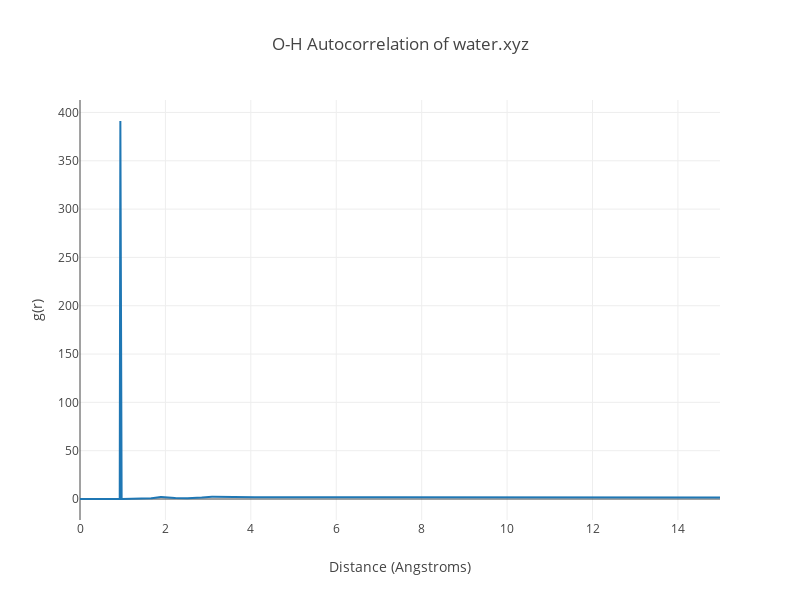
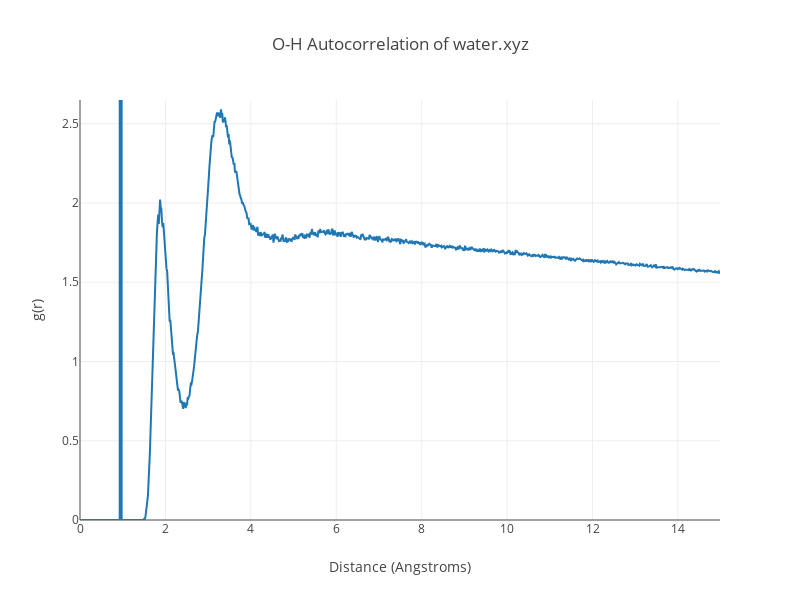
update plots

diff --git a/plots/m6_ex4_2_a.html b/plots/m6_ex4_2_a.html
@@ -104,7 +104,7 @@
         -924942.9785176998,
         -874893.2775014011,
         -930791.8623446389,
-        -927144.7366043833,
+        -927144.7366043831,
         -977595.2572881307,
         -921443.4658829939,
         -874902.2732745628,
@@ -112,7 +112,7 @@
         -890500.6494784101,
         -937302.8178310888,
         -947529.1970038363,
-        -931059.9303238968,
+        -931059.9303238966,
         -951707.895245998,
         -915879.1235923077,
         -899438.9297291357,

diff --git a/plots/m6_ex4_2_b.html b/plots/m6_ex4_2_b.html
@@ -92,9 +92,9 @@
         -813388.0273457404,
         -947750.037445928,
         -865554.2860830014,
-        -1102598.5822782724,
+        -1102598.5822782721,
         -1183023.488100707,
-        -1033511.4289496102,
+        -1033511.4289496101,
         -816287.6800282241,
         -2064867.5962800276,
         -1040766.286180422,

diff --git a/plots/m6_ex2_2_b.html b/plots/m6_ex2_2_b.html
@@ -2036,7 +2036,11 @@
     "yaxis": {
       "title": {
         "text": "g(r)"
-      }
+      },
+      "range": [
+        0.0,
+        2.65
+      ]
     }
   },
   "config": {}

diff --git a/md_code/src/main.rs b/md_code/src/main.rs
@@ -100,7 +100,7 @@ fn main() {
         let layout = Layout::new()
             .title(Title::new("O-H Autocorrelation of water.xyz"))
             .x_axis(Axis::new().title(Title::new("Distance (Angstroms)")))
-            .y_axis(Axis::new().title(Title::new("g(r)")));
+            .y_axis(Axis::new().title(Title::new("g(r)")).range(vec![0., 2.65]));
         plot.set_layout(layout);
         plot.add_trace(trace);
         #[cfg(feature = "png")]
@@ -177,8 +177,6 @@ fn main() {
             .width(2500)
             .title(Title::new("Autocorrelation of Sets"))
             .x_axis3(Axis::new().title(Title::new("Distance / Angstroms")))
-            // .x_axis2(Axis::new().title(Title::new("Distance (Angstroms)")))
-            // .x_axis(Axis::new().title(Title::new("Distance (Angstroms)")))
             .y_axis(Axis::new().title(Title::new("g(r)")))
             .y_axis2(Axis::new().title(Title::new("g(r)")))
             .y_axis3(Axis::new().title(Title::new("g(r)")));
